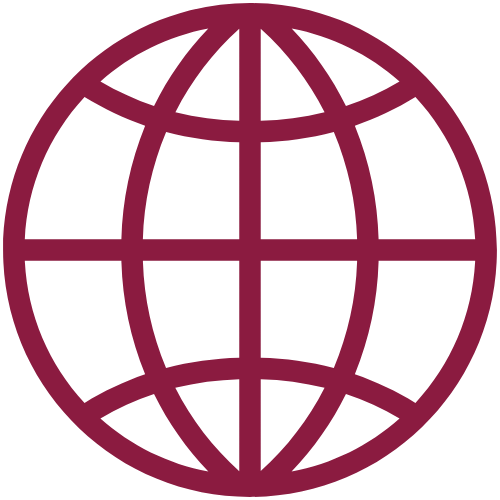
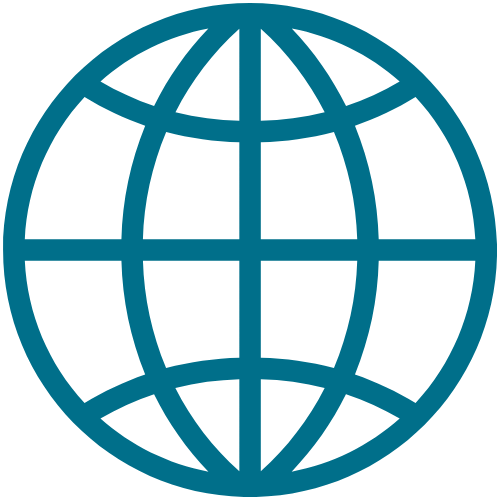
cambio de color

diff --git a/css/index.css b/css/index.css
@@ -37,15 +37,15 @@ body {
     font-family: 'Poppins', sans-serif;
     background-color: #ecf0f1;
     color: #2c3e50;
-    background: #b2627a;
-    background: linear-gradient(0deg, #b2627a 4%, #ecf0f1 10%);
+    background: #8bb4d4;
+    background: linear-gradient(0deg, #8bb4d4 4%, #ecf0f1 10%);
 }
 
 /* ===================================================
    HEADER (Logo, Navbar y Lista de Precios)
 =================================================== */
 header {
-    background-color: #b2627a;
+    background-color: #8bb4d4;
     display: flex;
     justify-content: center; /* Centrado en escritorio */
     align-items: center;
@@ -100,7 +100,7 @@ nav ul li a:hover {
    SECCIÓN DE INTRODUCCIÓN (Hero)
 =================================================== */
 .section-intrologo {
-    background: linear-gradient(0deg, #ecf0f1 50%, #b2627a 85%);
+    background: linear-gradient(0deg, #ecf0f1 50%, #8bb4d4 90%);
     display: flex;
     flex-direction: column;
     align-items: center;
@@ -144,10 +144,11 @@ nav ul li a:hover {
 
 /* Estilos para el color dividido del título */
 .color1 {
-    color: #c0003c;
+    color: #006f8a;
 }
 .color2 {
-    color: #b63b60;
+    color: #33aecc;
+    
 }
 
 /* Botón de la sección de introducción */
@@ -180,7 +181,7 @@ nav ul li a:hover {
     gap: 2rem;
     padding: 8%;
     background-color: #ecf0f1;
-    background: linear-gradient(0deg, rgba(236,240,241,1) 15%, rgba(178,98,122,0.18539915966386555) 49%, rgba(236,240,241,1) 80%);
+    background: linear-gradient(0deg, #ecf0f1 15%, #8bb4d481 49%, #ecf0f1 80%);
     min-height: 80vh;
     padding-bottom: 30%;
 }
@@ -440,7 +441,7 @@ nav ul li a:hover {
    FOOTER
 =================================================== */
 footer {
-    background-color: #b2627a;
+    background-color: #006f8a;
     text-align: center;
     padding: 20px;
     color: white;
@@ -583,7 +584,7 @@ footer {
    Estilos del Header y Navbar (Fijo en móvil)
 ================================ */
 header {
-  background-color: #b2627a;
+  background-color: #8bb4d4
 }
 
 .navbar {
@@ -605,7 +606,7 @@ header {
 
 .nav-item a {
   text-decoration: none;
-  color: #862341;
+  color: #326977e1;
   font-weight: bold;
   font-family: 'Montserrat', sans-serif;
   transition: 0.4s;
@@ -613,7 +614,7 @@ header {
 }
 
 .nav-item a:hover {
-  color: #c0003c;
+  color: #2d616e;
 }
 
 /* Ocultar el logo móvil en escritorio */
@@ -690,7 +691,7 @@ header {
     top: 30px; /* Ajusta según la altura del header */
     left: 0;
     width: 100%;
-    background-color: #b2627a;
+    background-color: #8bb4d4;
     transition: max-height 0.5s ease, opacity 0.5s ease;
     overflow: hidden;
     opacity: 0;
@@ -703,7 +704,7 @@ header {
     display: flex;
     opacity: 1;
     min-height: 100vh; /* Ajusta este valor según la cantidad de elementos */
-    background: linear-gradient(0deg, #ecf0f100 0%, #b2627af7 60%);
+    background: linear-gradient(0deg, #ecf0f100 0%, #8bb4d4 60%);
     margin: 0;
     padding: 0;
     border-radius: 0 0 0 0;
@@ -780,7 +781,7 @@ header {
 .titulos {
     text-align: center;
     padding: 2rem 0;
-    background: linear-gradient(90deg, #c0003c, #e7688e); /* Degradado acorde a los colores usados */
+    background: linear-gradient(90deg, #006f8a, #8bb4d4); /* Degradado acorde a los colores usados */
    
   }
   
@@ -1008,7 +1009,7 @@ header {
 }
 /* Estilo base para .section-intrologo */
 .section-intrologo {
-  background: linear-gradient(0deg, #ecf0f1 50%, #b2627a 85%);
+  background: linear-gradient(0deg, #ecf0f1 50%, #8bb4d4 85%);
   display: flex;
   flex-direction: column;
   align-items: center;
@@ -1089,7 +1090,7 @@ header {
 /*===========================================================*/
 /* Estilo base para .section-intrologo */
 .section-intrologo {
-  background: linear-gradient(0deg, #ecf0f1 50%, #b2627a 85%);
+  background: linear-gradient(0deg, #ecf0f1 50%, #8bb4d4 85%);
   display: flex;
   flex-direction: column;
   align-items: center;
@@ -1157,7 +1158,7 @@ footer a:hover {
 }
 /* Estilo base para la sección de introducción */
 .section-intrologo {
-  background: linear-gradient(0deg, #ecf0f1 50%, #b2627a 85%);
+  background: linear-gradient(0deg, #ecf0f1 50%, #8bb4d4 95%);
   display: flex;
   flex-direction: column;
   align-items: center;

diff --git a/index.html b/index.html
@@ -18,7 +18,7 @@
   <meta name="twitter:card" content="summary_large_image">
   
   <link rel="stylesheet" href="https://cdnjs.cloudflare.com/ajax/libs/font-awesome/5.15.3/css/all.min.css">
-  <link rel="stylesheet" href="./styles/index.css">
+  <link rel="stylesheet" href="./css/index.css">
   <script src="https://kit.fontawesome.com/a076d05399.js" crossorigin="anonymous"></script>
   <link rel="icon" href="./logo.ico" type="image/x-icon">
   <link rel="stylesheet" href="https://fonts.googleapis.com/css2?family=Holtwood+One+SC&display=swap">
@@ -37,7 +37,7 @@
       <!-- Logo móvil (opcional, si prefieres que esté dentro de la lista, envuélvelo en <li>) -->
       <ul class="nav-menu" id="nav-menu">
         <li class="nav-logo-mobile">
-          <img src="./img/logo.png" alt="Logo pequeño de NEWIMPORT">
+          <img src="./img/logos/newimportlogo.png" alt="Logo pequeño de NEWIMPORT">
         </li>
         <li class="nav-item"><a href="/inicio">Inicio</a></li>
         <li class="nav-item"><a href="./listaprecios.html">Productos</a></li>
